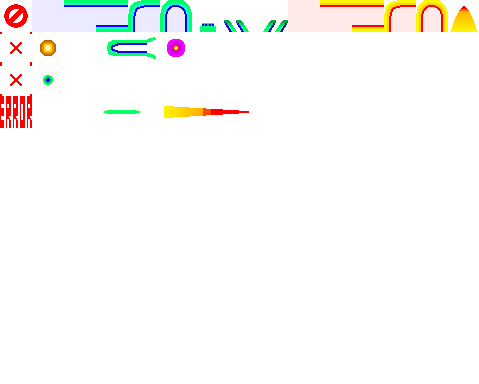
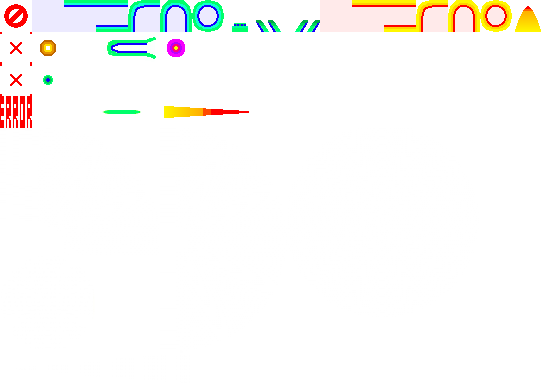
0.1.9 完善纹理绘制，完成非玩家生物死亡机制

diff --git a/MadCells.cpp b/MadCells.cpp
@@ -10,6 +10,8 @@ using namespace std;
 const int MAX_BULLETS=200;
 const int SCREEN_WIDTH=2400;
 const int SCREEN_HEIGHT=1400;
+const int CONNECT_INDEX=7;
+const int BLOCK_ALLTYPE=11;
 
 std::random_device rd;//随机数用
 std::mt19937 rng(rd());
@@ -32,7 +34,7 @@ enum class Type
 };
 enum class PartType
 {
-	none,cy_0,cy_1,cy_2c,cy_2p,cy_3,//cy->cytosol细胞质
+	none,cy_0,cy_1,cy_2c,cy_2p,cy_3,cy_4,//cy->cytosol细胞质
 	mount,//鞭毛
 	cilium_left,cilium_right,//纤毛
 	spike//刺细胞
@@ -95,7 +97,7 @@ struct Particle
 		case Particletype::deadring:
 			size+=(maxsize-size)*0.1f;
 			size2+=(maxsize-size2)*0.03f;
-			if(maxsize-size2>=5.0f) lifetime=1e6;
+			if(maxsize-size2>=3.0f) lifetime=1e6;
 			else lifetime=-1.0f;
 			break;
 		default:
@@ -170,12 +172,12 @@ struct Particlemaster
 				newParticle.color1={255,255,0,255};
 				break;
 			case Particletype::geometricslime:
-				newParticle.velocity.x=RandomFloat(-300.0f,300.0f);
-				newParticle.velocity.y=RandomFloat(-300.0f,300.0f);
+				newParticle.velocity.x=RandomFloat(vel.x,vel.y);
+				newParticle.velocity.y=RandomFloat(vel.x,vel.y);
 				newParticle.vd=RandomFloat(-60.0f,60.0f);
 				newParticle.direction=RandomFloat(0.0f,360.0f);
 				newParticle.size=0.0f;
-				newParticle.maxsize=RandomFloat(50.0f,400.0f);
+				newParticle.maxsize=RandomFloat(50.0f,size);
 				if(RandomInt(1,3)>2) newParticle.color1=color;
 				else newParticle.color1={255,255,255,150};
 				newParticle.side=RandomInt(3,8);
@@ -237,6 +239,10 @@ struct Block
 		case PartType::cy_3:
 			DrawTexturePro(texture,{160,128,128,224},{pos.x,pos.y,128,224},{16,112},d+blo_d-90,lightcolor);
 			break;
+		case PartType::cy_4:
+			DrawTexturePro(texture,{160,128,128,224},{pos.x,pos.y,128,224},{16,112},d+blo_d-90,lightcolor);
+			DrawTexturePro(texture,{160,128,128,224},{pos.x,pos.y,128,224},{16,112},d+blo_d+90,lightcolor);
+			break;
 		default:
 			break;
 		}
@@ -279,14 +285,17 @@ struct Block
 			case PartType::cy_3:
 				source={160,0,32,32};
 				break;
-			case PartType::mount:
+			case PartType::cy_4:
 				source={192,0,32,32};
 				break;
-			case PartType::cilium_left:
+			case PartType::mount:
 				source={224,0,32,32};
 				break;
-			case PartType::cilium_right:
+			case PartType::cilium_left:
 				source={256,0,32,32};
+				break;
+			case PartType::cilium_right:
+				source={288,0,32,32};
 				break;
 			default:
 				source={0,0,32,32};
@@ -319,22 +328,24 @@ struct Block
 			switch(parttype)
 			{
 			case PartType::cy_0:
-				source={288,0,32,32};
-				break;
-			case PartType::cy_1:
 				source={320,0,32,32};
 				break;
-			case PartType::cy_2p:
+			case PartType::cy_1:
 				source={352,0,32,32};
 				break;
-			case PartType::cy_2c:
+			case PartType::cy_2p:
 				source={384,0,32,32};
 				break;
-			case PartType::cy_3:
+			case PartType::cy_2c:
 				source={416,0,32,32};
 				break;
-			case PartType::spike:
+			case PartType::cy_3:
 				source={448,0,32,32};
+				break;
+			case PartType::cy_4:
+				source={480,0,32,32};
+			case PartType::spike:
+				source={512,0,32,32};
 				break;
 			default:
 				source={0,0,32,32};
@@ -488,6 +499,7 @@ struct Cell
 	vector<Block> Blocks;
 	vector<Flagellum> Flagella;
 	Color color;
+	bool isdead=false;
 	
 	void update(float deltaT)
 	{
@@ -609,7 +621,7 @@ struct Cell
 			if(block.local.x==local.x && block.local.y==local.y)
 			{
 				int index=static_cast<int>(block.parttype);
-				return (index>=1 && index<6);
+				return (index>=1 && index<CONNECT_INDEX);
 			}
 		}
 		return false;
@@ -618,7 +630,7 @@ struct Cell
 	bool BFS_isconnector(Block block)
 	{
 		int type=(int)block.parttype;
-		return (type>=1 && type<6);
+		return (type>=1 && type<CONNECT_INDEX);
 	}
 	void rebulildcell()
 	{
@@ -673,12 +685,12 @@ struct Cell
 			right=Check_other_blocks({block->local.x+32,block->local.y});
 			
 			int tot=up+left+down+right;
-			if(tot==0)
+			if(tot==0 && block->organelle!=Organelle::nucleus)
 			{
 				is_illegal=true;
 			}
 			int self_m=static_cast<int>(block->parttype);
-			if(self_m>=1 && self_m<6)
+			if(self_m>=1 && self_m<CONNECT_INDEX)
 			{
 				if(tot==1)
 				{
@@ -711,7 +723,7 @@ struct Cell
 					block->direction=0.0f;
 				}
 			}
-			if(self_m>=6 && self_m<10)
+			if(self_m>=CONNECT_INDEX && self_m<BLOCK_ALLTYPE)
 			{
 				if(up==1) block->direction=180.0f;
 				if(left==1) block->direction=90.0f;
@@ -747,7 +759,7 @@ struct Cell
 		{
 			if(block->hp<=0.0f)
 			{
-				Particle_master.createparticle(Particletype::geometricslime,position+block->rocate,Vector2{0,0},0,color,0,RandomInt(3,5));
+				Particle_master.createparticle(Particletype::geometricslime,position+block->rocate,Vector2{-300,300},0,color,400,RandomInt(3,5));
 				Particle_master.createparticle(Particletype::deadring,position+block->rocate,Vector2{0,0},0,{255,255,255,200},400,1);
 				block=Blocks.erase(block);
 				need_to_rebuild=true;
@@ -773,7 +785,7 @@ struct Cell
 			if(block.local==local)
 			{
 				int parttype_id=static_cast<int>(block.parttype);
-				if(parttype_id>=1 && parttype_id<6)
+				if(parttype_id>=1 && parttype_id<CONNECT_INDEX)
 				{
 					return {true,true,index,block.organelle==Organelle::nucleus};
 				}
@@ -837,7 +849,7 @@ struct Cellbuilder
 			for(const auto& block:newCell.Blocks)
 			{
 				int type=(int)block.parttype;
-				if(!(type>=1 && type<6)) continue;
+				if(!(type>=1 && type<CONNECT_INDEX)) continue;
 				for(const auto& d:dirs)
 				{
 					Vector2 checkpos=block.local+d;
@@ -1014,10 +1026,11 @@ void UpdateGaming(float deltaT,GameState& interface,Camera2D& gamecamera,Camera2
 						if(!(fabs(rocateback.x)<16.0f && fabs(rocateback.y)<16.0f)) continue;
 						block.hp-=Bullet_pool.Bullets[i].damage;
 						enemy.force({block.rocate.x,block.rocate.y},Vector2Normalize(Bullet_pool.Bullets[i].velocity)*50.0f);
-						shake.x+=RandomFloat(-15.0f,15.0f);
-						shake.y+=RandomFloat(-15.0f,15.0f);
+						shake.x+=RandomFloat(-30.0f,30.0f);
+						shake.y+=RandomFloat(-30.0f,30.0f);
 						Particle_master.createparticle(Particletype::hit,enemy.position+block.rocate,Bullet_pool.Bullets[i].velocity,Bullet_pool.Bullets[i].direction,Color{0,0,0,0},0,3);
 						block.hittimer=0.1f;
+						if(block.organelle==Organelle::nucleus && block.hp<=0.0f) enemy.isdead=true;
 						Bullet_pool.Bullets[i].is_active=false;
 						if(!Bullet_pool.Bullets[i].is_active) break;
 					}
@@ -1113,6 +1126,21 @@ void UpdateGaming(float deltaT,GameState& interface,Camera2D& gamecamera,Camera2
 		}
 		default:
 			break;
+		}
+	}
+	for(auto it=Livings.begin();it!=Livings.end();)
+	{
+		if(it->isdead)
+		{
+			Particle_master.createparticle(Particletype::geometricslime,it->position+it->center,Vector2{-1200,1200},0,it->color,1200,RandomInt(8,12));
+			Particle_master.createparticle(Particletype::deadring,it->position+it->center,Vector2{0,0},0,{255,255,255,200},1500,1);
+			shake.x+=RandomFloat(-100.0f,100.0f);
+			shake.y+=RandomFloat(-100.0f,100.0f);
+			it=Livings.erase(it);
+		}
+		else
+		{
+			++it;
 		}
 	}
 	for(auto it=Particle_master.Particles.begin();it!=Particle_master.Particles.end();)
@@ -1409,9 +1437,9 @@ int main()
 	{
 		{0,"空",{0,0,32,32},0.0f,0.0f,PartType::none,Organelle::none,0.0f},
 		{1,"细胞质块",{128,0,32,32},1.0f,50.0f,PartType::cy_0,Organelle::none,0.1F},
-		{2,"鞭毛基底",{192,0,32,32},0.4F,30.0F,PartType::mount,Organelle::none,0.2F},
-		{3,"左纤毛",{224,0,32,32},0.3f,20.0f,PartType::cilium_left,Organelle::none,0.3f},
-		{4,"右纤毛",{256,0,32,32},0.2f,20.0f,PartType::cilium_right,Organelle::none,0.4f},
+		{2,"鞭毛基底",{224,0,32,32},0.4F,30.0F,PartType::mount,Organelle::none,0.2F},
+		{3,"左纤毛",{256,0,32,32},0.3f,20.0f,PartType::cilium_left,Organelle::none,0.3f},
+		{4,"右纤毛",{288,0,32,32},0.2f,20.0f,PartType::cilium_right,Organelle::none,0.4f},
 		{5,"细胞核",{32,32,32,32},0.5f,0.0f,PartType::none,Organelle::nucleus,0.5f},
 		{6,"线粒体",{64,32,32,32},0.1f,0.0f,PartType::none,Organelle::mitochondrion,0.6f},
 		{7,"特化口沟",{96,32,64,32},0.5f,0.0f,PartType::none,Organelle::specialized_oral_groove,0.7f},
